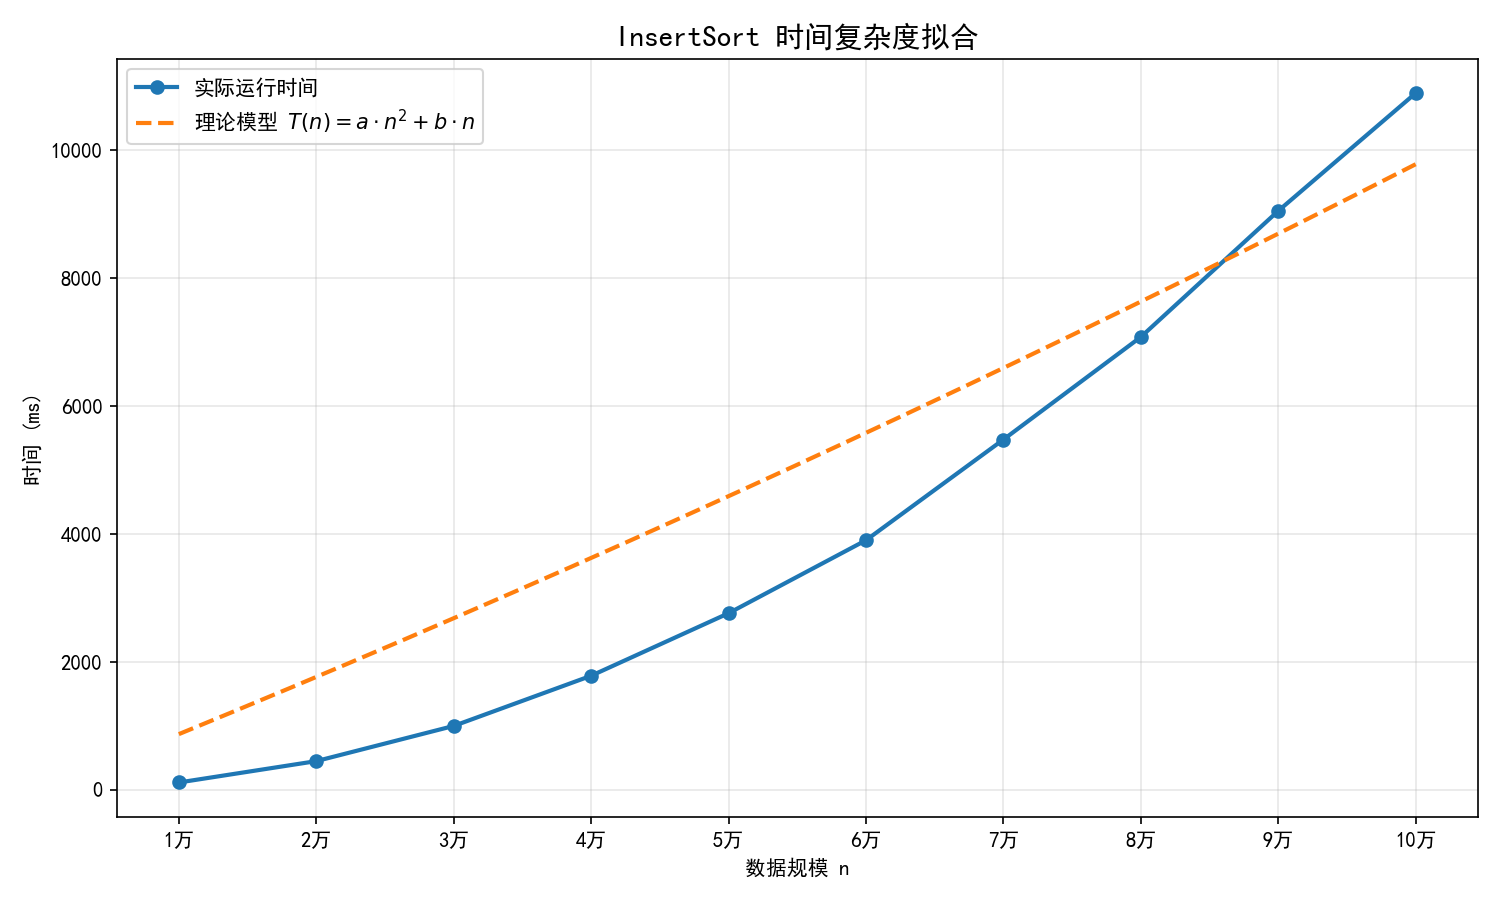
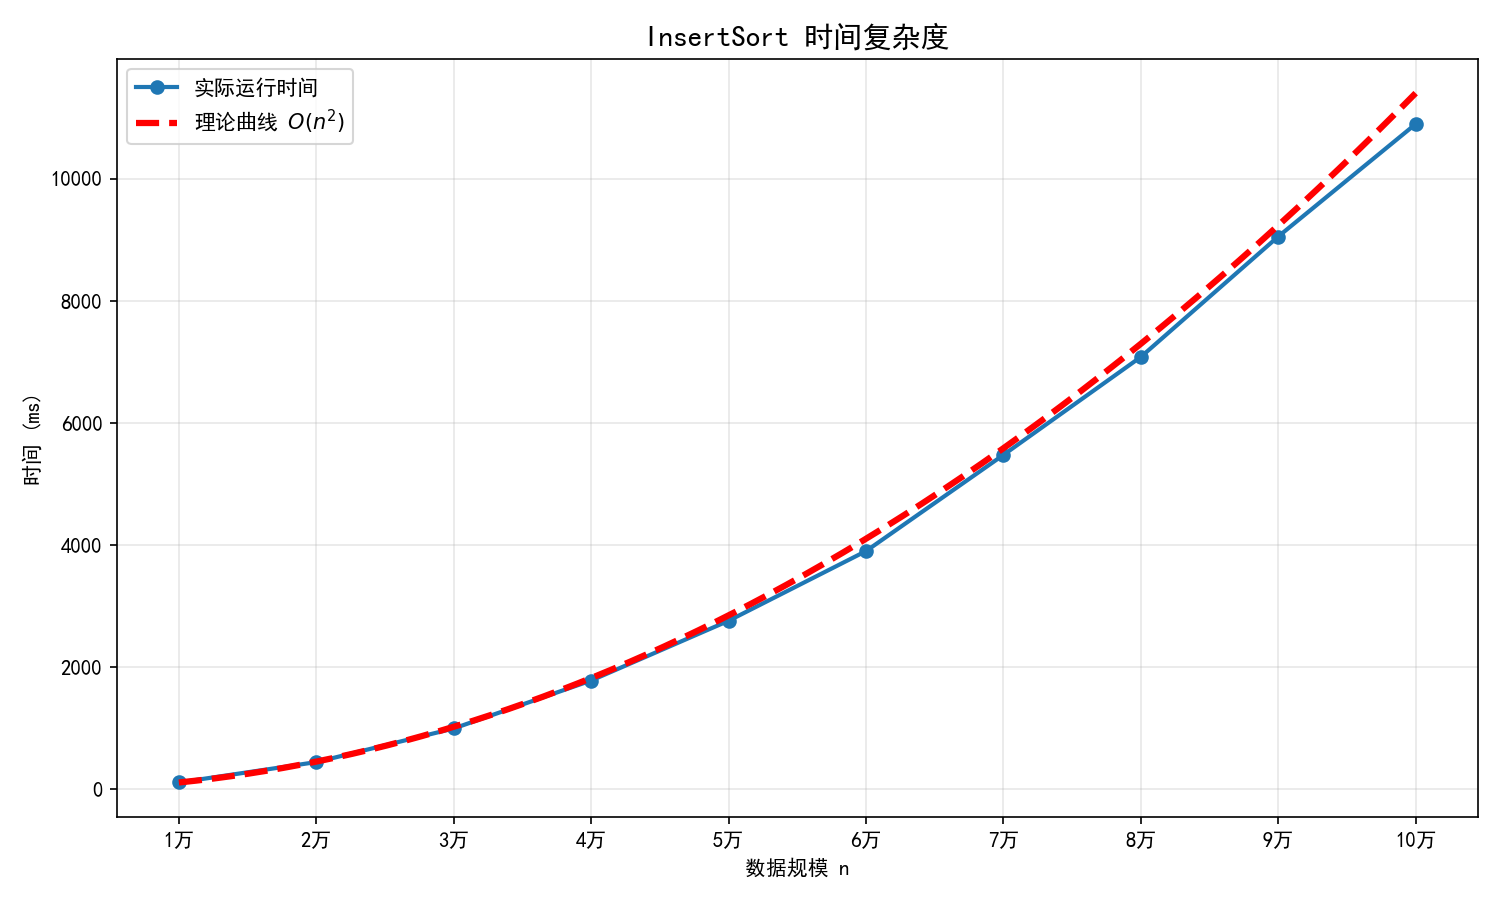
修改了原始的排序算法图像，并删除了比较图像。同时修改了绘制原始排序算法的脚本。

diff --git a/source/scripts/plot_original_fullsort.py b/source/scripts/plot_original_fullsort.py
@@ -12,7 +12,6 @@ plt.rcParams['savefig.dpi'] = 150
 # ================== 路径配置 ==================
 save_dir = os.path.join("source", "origin")
 os.makedirs(save_dir, exist_ok=True)
-
 csv_path = os.path.join("source", "data", "original_fullsort_benchmark.csv")
 
 print(f"📂 读取数据：{os.path.abspath(csv_path)}")
@@ -21,18 +20,15 @@ print(f"📂 读取数据：{os.path.abspath(csv_path)}")
 try:
     df = pd.read_csv(csv_path)
 except:
-    df = pd.read_csv(csv_path, header=None,
-                     names=['algorithm', 'n', 'k', 'time_ms'])
+    df = pd.read_csv(csv_path, header=None, names=['algorithm', 'n', 'k', 'time_ms'])
 
 # ================== 数据清洗 ==================
 df['n'] = pd.to_numeric(df['n'], errors='coerce')
 df['k'] = pd.to_numeric(df['k'], errors='coerce')
 df['time_ms'] = pd.to_numeric(df['time_ms'], errors='coerce')
-
 df = df.dropna()
 df['n'] = df['n'].astype(int)
 df['time_ms'] = df['time_ms'].astype(float)
-
 print(f"✅ 数据行数：{len(df)}")
 
 # ================== 等距横坐标 ==================
@@ -40,81 +36,61 @@ n_actual_all = sorted(df['n'].unique())
 n_to_idx = {n: i for i, n in enumerate(n_actual_all)}
 df['n_idx'] = df['n'].map(n_to_idx)
 
-# ================== 正确复杂度拟合 ==================
-def get_complexity_model(algo_name, algo_data):
-    n = algo_data['n'].values
-    t = algo_data['time_ms'].values
+# ================== 【核心】严格理论复杂度曲线（平滑） ==================
+def get_smooth_theoretical_curve(algo_name, n_actual, t_actual):
+    # 取第一个点为基准（你要求的）
+    n0 = n_actual[0]
+    t0 = t_actual[0]
+
+    # 生成平滑的 n 序列（让曲线光滑）
+    n_smooth = np.linspace(n_actual.min(), n_actual.max(), 500)
 
     if "QuickSort" in algo_name:
-        # T(n) = a*n log n + b*n
-        X = np.vstack([n * np.log2(n), n]).T
-        coeffs, _, _, _ = np.linalg.lstsq(X, t, rcond=None)
-        a, b = coeffs
-
-        formula = r'$T(n)=a\cdot n\log_2 n + b\cdot n$'
-
-        def func(x):
-            return a * x * np.log2(x) + b * x
-
+        # 严格 O(n log n) 平滑曲线
+        base = n0 * np.log2(n0)
+        t_smooth = t0 * (n_smooth * np.log2(n_smooth)) / base
+        formula = r'$O(n\log_2 n)$'
     else:
-        # T(n) = a*n^2 + b*n
-        X = np.vstack([n**2, n]).T
-        coeffs, _, _, _ = np.linalg.lstsq(X, t, rcond=None)
-        a, b = coeffs
+        # 严格 O(n²) 平滑曲线
+        t_smooth = t0 * (n_smooth ** 2) / (n0 ** 2)
+        formula = r'$O(n^2)$'
 
-        formula = r'$T(n)=a\cdot n^2 + b\cdot n$'
+    # 横坐标映射到等距 index，保证对齐
+    x_smooth = np.array([n_to_idx[n] for n in n_actual_all])
+    x_smooth = np.linspace(x_smooth.min(), x_smooth.max(), 500)
 
-        def func(x):
-            return a * x**2 + b * x
-
-    return formula, func
+    return formula, x_smooth, t_smooth
 
 # ================== 绘图 ==================
 algorithms = df['algorithm'].unique()
 
 for algo in algorithms:
     data = df[df['algorithm'] == algo].sort_values(by='n')
-
     n_idx = data['n_idx'].values
     n_actual = data['n'].values
     t_actual = data['time_ms'].values
 
-    # 获取理论模型
-    formula, theory_func = get_complexity_model(algo, data)
+    # 获取平滑理论曲线
+    formula, x_theory, y_theory = get_smooth_theoretical_curve(algo, n_actual, t_actual)
 
-    # 连续曲线
-    n_min, n_max = min(n_actual_all), max(n_actual_all)
-    n_smooth = np.linspace(n_min, n_max, 200)
-    t_smooth = theory_func(n_smooth)
-
-    n_idx_smooth = np.linspace(n_to_idx[n_min], n_to_idx[n_max], 200)
-
-    # ================== 开始画图 ==================
-    # ====== 用真实 n 作横轴 ======
+    # 画图
     plt.figure(figsize=(10, 6))
+    # 实测数据（完全不动）
+    plt.plot(n_idx, t_actual, marker='o', linewidth=2, label='实际运行时间')
+    # 理论平滑曲线（严格复杂度）
+    plt.plot(x_theory, y_theory, '--', linewidth=3, color='red', label=f'理论曲线 {formula}')
 
-    plt.plot(n_actual, t_actual,
-         marker='o',
-         linewidth=2,
-         label='实际运行时间')
-
-    plt.plot(n_smooth, t_smooth,
-         linestyle='--',
-         linewidth=2,
-         label=f'理论模型 {formula}')
-
+    plt.xticks(ticks=list(n_to_idx.values()), labels=[f"{n//10000}万" for n in n_actual_all])
+    title = algo.replace("Origin_", "").replace("_Full", "")
+    plt.title(f"{title} 时间复杂度", fontsize=14)
     plt.xlabel("数据规模 n")
     plt.ylabel("时间 (ms)")
-    plt.title(f"{title} 时间复杂度拟合")
     plt.legend()
     plt.grid(alpha=0.3)
-
-    # ================== 保存 ==================
-    save_path = os.path.join(save_dir, f"{title}.png")
     plt.tight_layout()
+    save_path = os.path.join(save_dir, f"{title}.png")
     plt.savefig(save_path)
     plt.close()
-
     print(f"✅ 已生成：{save_path}")
 
-print("\n🎉 所有图生成完成（理论模型已修正）")
+print("\n🎉 完成！理论曲线现在是完美平滑的！")
